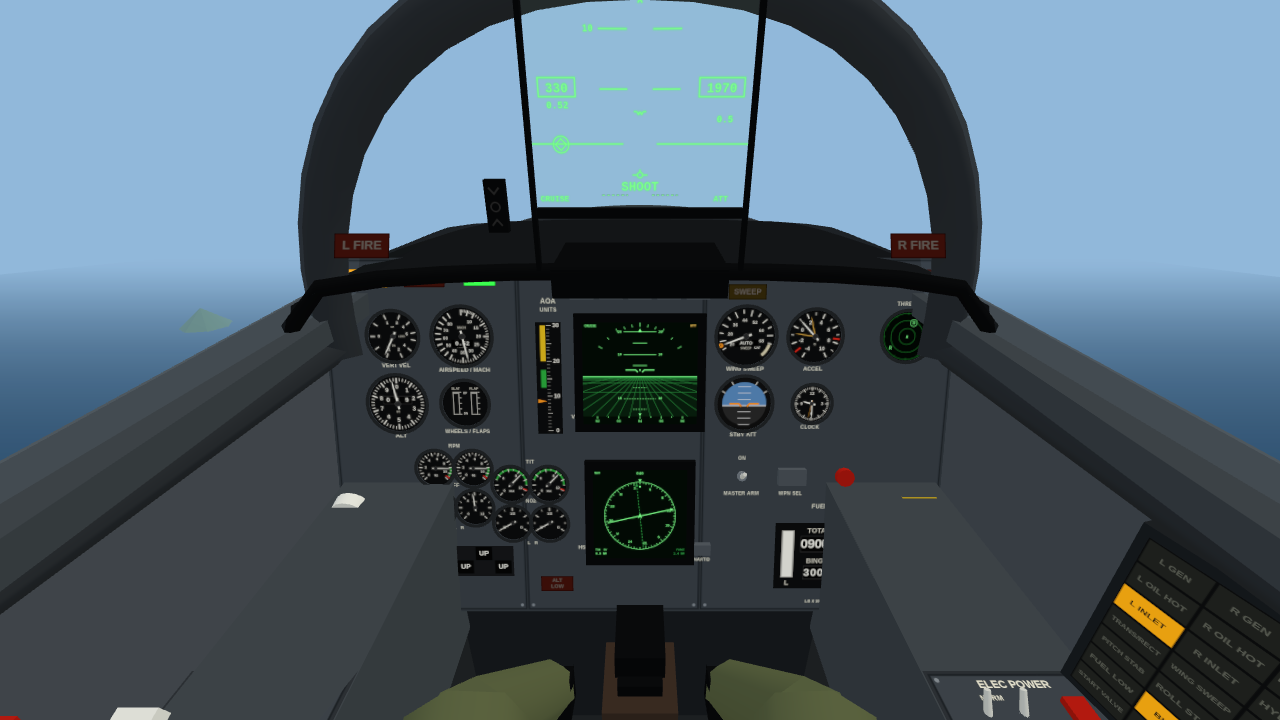
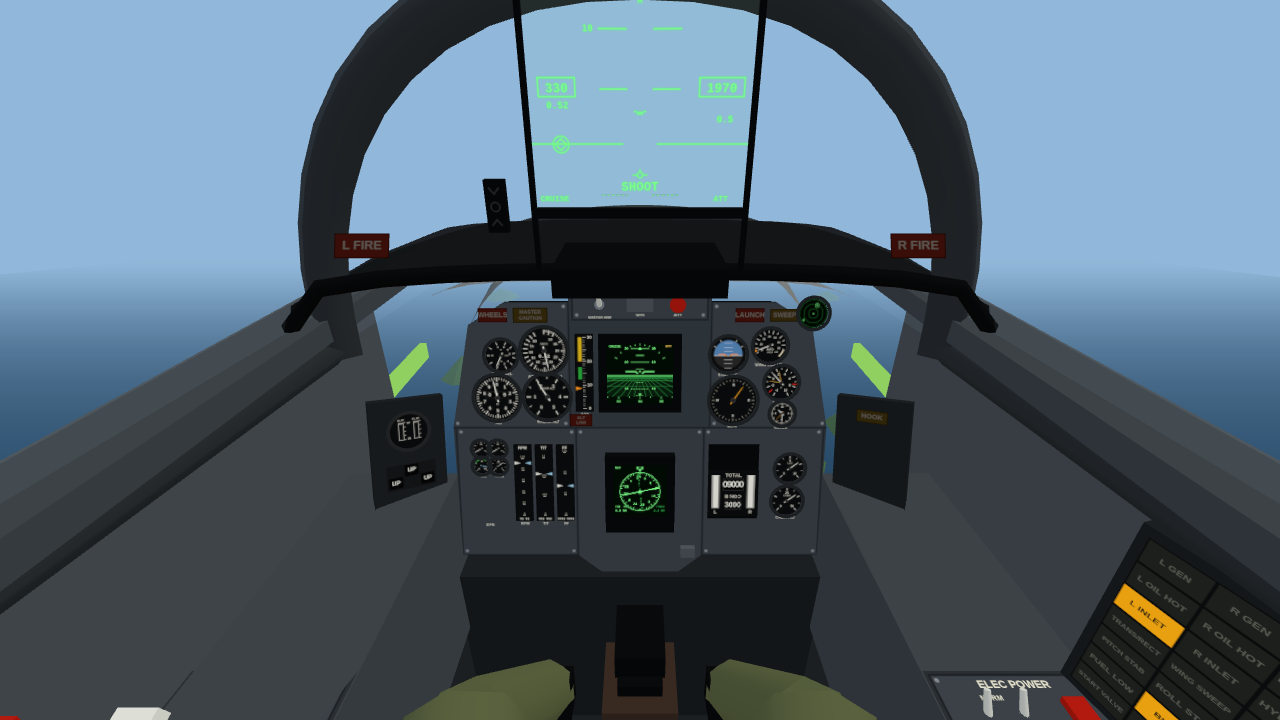
look-tomcat: pilot's panel traced from NATOPS fig. 1-3 (panel-pilot.json: 24 items by NATOPS number, scaled by the 3ATI airspeed bezel): the traced outline with cut-outs (main panel over the knee panels and the HSD), every dial / tape / display at its traced centre and size; RPM / TIT / FF as tapes,

Changed region(s): [[0.25, 0.3667, 0.7188, 0.8556], [0.125, 0.4278, 0.1875, 0.4583], [0.2812, 0.3361, 0.3125, 0.3667]]

diff --git a/game/js/units/air/tomcatcockpit.js b/game/js/units/air/tomcatcockpit.js
@@ -132,24 +132,43 @@ export function buildTomcatCockpit() {
 
   // ================================================================ the main instrument panel (tilted back)
   const P = new THREE.Group(); P.position.set(0, 0.5, -6.22); P.rotation.x = -0.3; g.add(P);
+  // (ngc/look-tomcat) TRACED from NATOPS NAVAIR 01-F14A-1 (1972) fig. 1-3, "Pilot's instrument panel and consoles" (page
+  // rendered at 5x: tools/blueprint/f14a/panel-pilot.json). Item = [NATOPS no., legend, centre x, y (figure px), w, h
+  // (px; a round dial has h 0)]. Scale: the 3ATI airspeed / Mach indicator (24) = 3.125 in = 139 px -> 1760 px/m; origin:
+  // the VDI's centre (33) at panel (0, 0.13). The illustration is a slight perspective, so centres are good to ~1 cm.
+  const PANEL_TRACE = [
+    [25, 'VERTICAL VELOCITY', 1519, 1107, 94, 0], [24, 'AIRSPEED / MACH', 1652, 1092, 139, 0], [22, 'ALTIMETER', 1502, 1240, 139, 0], [23, 'RADAR ALTIMETER', 1658, 1237, 139, 0],
+    [27, 'ANGLE OF ATTACK', 1774, 1162, 56, 244], [33, 'VDI', 1947, 1162, 256, 244], [32, 'AIR COMBAT MANEUVER PANEL', 1947, 925, 378, 144],
+    [43, 'STANDBY ATTITUDE', 2219, 1103, 106, 0], [40, 'WING SWEEP', 2347, 1076, 100, 0], [42, 'ACCELEROMETER', 2386, 1192, 100, 0], [46, 'BDHI', 2238, 1248, 144, 0], [45, 'CLOCK', 2392, 1290, 72, 0],
+    [16, 'NOZZLE POSITION', 1444, 1405, 50, 0], [16, 'NOZZLE POSITION R', 1497, 1405, 50, 0], [17, 'OIL PRESSURE', 1444, 1461, 50, 0], [18, 'HYDRAULIC PRESSURE', 1497, 1461, 50, 0],
+    [19, 'RPM', 1574, 1520, 56, 256], [20, 'TIT', 1641, 1520, 56, 256], [21, 'FUEL FLOW', 1708, 1520, 56, 256], [15, 'ENGINE PRESSURE RATIO', 1461, 1603, 122, 100],
+    [34, 'HSD', 1947, 1555, 222, 272], [48, 'FUEL QUANTITY', 2246, 1517, 161, 250], [49, 'LIQUID OXYGEN', 2424, 1470, 89, 0], [50, 'CABIN PRESSURE ALTIMETER', 2419, 1579, 94, 0],
+  ];
+  const PXM = 1760, TR = Object.fromEntries(PANEL_TRACE.map(([n, name, px, py, w, h]) => [name, { n, x: (px - 1947) / PXM, y: (1162 - py) / PXM + 0.13, w: w / PXM, h: h / PXM }]));
+  const at = name => TR[name], gl = name => [at(name).x, at(name).y, at(name).w];
   const PW = 1.1, PH = 0.66;
-  box(PW, PH, 0.05, dark, 0, 0, -0.03, P);
   const art = canvasTex(1100, 660);
-  plane(PW, PH, new THREE.MeshLambertMaterial({ map: art.tex, emissive: 0xffffff, emissiveMap: art.tex, emissiveIntensity: 0.55 }), 0, 0, 0, P);
+  // the traced outline (fig. 1-3): the main instrument panel (left, centre, right) over the two knee panels and the HSD
+  // between them; every dial and display a cut-out (the dark instrument cases show through round the bezels)
+  const OUT = [[-0.335, 0.03], [-0.30, 0.215], [-0.235, 0.255], [-0.125, 0.255], [-0.118, 0.33], [0.118, 0.33], [0.125, 0.255], [0.235, 0.255], [0.30, 0.215], [0.335, 0.03],
+    [0.33, -0.215], [0.115, -0.215], [0.07, -0.25], [-0.07, -0.25], [-0.115, -0.215], [-0.33, -0.215]];
+  const face = new THREE.Shape(OUT.map(([x, y]) => new THREE.Vector2(x, y)));
+  const holeIf = (x, y, w, h) => { const p = new THREE.Path(); if (h) { p.moveTo(x - w / 2, y - h / 2); p.lineTo(x - w / 2, y + h / 2); p.lineTo(x + w / 2, y + h / 2); p.lineTo(x + w / 2, y - h / 2); p.closePath(); } else p.absarc(x, y, w / 2 - 0.002, 0, TAU, true); face.holes.push(p); };
+  for (const it of Object.values(TR)) if (it.n !== 32 && it.n !== 15) holeIf(it.x, it.y, it.w, it.h);
+  const faceGeo = new THREE.ShapeGeometry(face, 24); { const uv = faceGeo.attributes.uv; for (let i = 0; i < uv.count; i++) uv.setXY(i, uv.getX(i) / PW + 0.5, uv.getY(i) / PH + 0.5); }
+  P.add(new THREE.Mesh(faceGeo, new THREE.MeshLambertMaterial({ map: art.tex, emissive: 0xffffff, emissiveMap: art.tex, emissiveIntensity: 0.55 })));
+  const back = new THREE.Mesh(new THREE.ShapeGeometry(new THREE.Shape(OUT.map(([x, y]) => new THREE.Vector2(x, y)))), black); back.position.z = -0.035; P.add(back);   // the instrument cases' dark behind the cut-outs
   // ---- round gauges: [x, y, diameter] on the panel
-  // (ngc/look-tomcat) laid out per NATOPS NAVAIR 01-F14A-1 fig. 1-3 (pilot's instrument panel and consoles): LEFT
-  // instrument panel VSI (25), airspeed/Mach (24), altimeter (22), wheels-flaps position (14, by the gear handle); LEFT KNEE
-  // panel the engine instruments (15-21: RPM, TIT, FF, nozzle, oil); RIGHT instrument panel wing sweep (40), accelerometer
-  // (42), standby attitude (43), clock (45); RIGHT KNEE fuel quantity (48); centre VDI (33) over HSD (34). The 1980 ALR-45
-  // threat scope sits top right (not in the 1972 figure)
+  const GLV = { flap: [0, 0.075, 0.06] };   // 14 WHEELS-FLAPS POSITION on the left vertical console
   const GL = {
-    vsi: [-0.43, 0.195, 0.085], asi: [-0.31, 0.195, 0.1], alt: [-0.43, 0.075, 0.1], flap: [-0.31, 0.075, 0.08],
-    sweep: [0.185, 0.195, 0.1], gmeter: [0.305, 0.195, 0.09], adi: [0.185, 0.075, 0.095], clock: [0.305, 0.075, 0.065],
-    rpmL: [-0.37, -0.045, 0.064], rpmR: [-0.302, -0.045, 0.064], titL: [-0.234, -0.075, 0.064], titR: [-0.166, -0.075, 0.064],
-    ffL: [-0.37, -0.12, 0.064], ffR: [-0.302, -0.12, 0.064], nozL: [-0.234, -0.15, 0.064], nozR: [-0.166, -0.15, 0.064],
-    oil: [-0.43, -0.225, 0.06], rwr: [0.465, 0.195, 0.085],
+    vsi: gl('VERTICAL VELOCITY'), asi: gl('AIRSPEED / MACH'), alt: gl('ALTIMETER'), ralt: gl('RADAR ALTIMETER'),
+    adi: gl('STANDBY ATTITUDE'), sweep: gl('WING SWEEP'), gmeter: gl('ACCELEROMETER'), bdhi: gl('BDHI'), clock: gl('CLOCK'),
+    nozL: gl('NOZZLE POSITION'), nozR: gl('NOZZLE POSITION R'), oil: gl('OIL PRESSURE'), hyd: gl('HYDRAULIC PRESSURE'),
+    lox: gl('LIQUID OXYGEN'), cabin: gl('CABIN PRESSURE ALTIMETER'), rwr: [0.30, 0.235, 0.05],
   };
   const gauges = [], ringM = M(0x26282a);
+  const VL = new THREE.Group(), VR = new THREE.Group(); VL.position.set(-0.40, -0.04, 0.035); VL.rotation.y = 0.6; VR.position.set(0.40, -0.04, 0.035); VR.rotation.y = -0.6; P.add(VL, VR);
+  for (const v of [VL, VR]) box(0.12, 0.26, 0.02, dark, 0, 0, -0.012, v);   // the left / right vertical consoles (fig. 1-3: 11-14, 51-53)
   function gauge(key, size, face, dyn, p = P, gl = GL) {
     const [x, y, d] = gl[key], t = canvasTex(size, size), o = new THREE.Mesh(new THREE.CircleGeometry(d / 2, 36), new THREE.MeshBasicMaterial({ map: t.tex, toneMapped: false, color: 0xdedede }));
     o.position.set(x, y, 0.004); p.add(o);
@@ -162,7 +181,7 @@ export function buildTomcatCockpit() {
   function rect(key, w, h, px, x, y, dyn, p = P, seatI = 0) { const t = canvasTex(Math.round(w * px), Math.round(h * px)), o = plane(w, h, new THREE.MeshBasicMaterial({ map: t.tex, toneMapped: false, color: 0xdedede }), x, y, 0.004, p); const R = { key, ...t, dyn, mesh: o, seat: seatI }; rects.push(R); return R; }
   // CRT displays: green phosphor, a bezel
   const crt = (w, h, px, x, y, p = P) => { box(w + 0.03, h + 0.03, 0.03, black, x, y, -0.005, p); const t = canvasTex(Math.round(w * px), Math.round(h * px)); const o = plane(w, h, new THREE.MeshBasicMaterial({ map: t.tex, toneMapped: false }), x, y, 0.012, p); return { ...t, mesh: o }; };
-  const vdi = crt(0.2, 0.18, 2400, 0, 0.13), hsd = crt(0.17, 0.17, 2400, 0, -0.13);
+  const vdi = crt(at('VDI').w - 0.03, at('VDI').h - 0.03, 2400, at('VDI').x, at('VDI').y), hsd = crt(at('HSD').w - 0.03, at('HSD').w - 0.03, 2400, at('HSD').x, at('HSD').y + 0.01);
 
   // ---- caption lamps: two pre-drawn textures (off / on), swapped by setLamp
   function lamp(parent, w, h, x, y, z, text, on, off = '#2a2420', ink = '#111', rx = 0, ry = 0) {
@@ -173,13 +192,13 @@ export function buildTomcatCockpit() {
   }
   const setLamp = (o, v) => { v = !!v; if (o.userData.on !== v) { o.userData.on = v; o.material.map = v ? o.userData.tOn : o.userData.tOff; } };
   const L = {
-    mc: lamp(P, 0.075, 0.032, -0.47, 0.295, 0.005, 'MASTER|CAUTION', '#ffaa18', '#2e2408'),
-    wheels: lamp(P, 0.07, 0.03, -0.37, 0.295, 0.005, 'WHEELS', '#ff2a14', '#3a0e08'),
-    altlo: lamp(P, 0.06, 0.03, -0.155, -0.27, 0.005, 'ALT|LOW', '#ff2a14', '#3a0e08'),
-    launch: lamp(P, 0.065, 0.03, 0.48, 0.295, 0.005, 'LAUNCH', '#ff2a14', '#3a0e08'),
-    acm: lamp(P, 0.055, 0.026, -0.275, 0.295, 0.005, 'ACM', '#3cff50', '#0e2410'),
-    sweep: lamp(P, 0.065, 0.026, 0.185, 0.272, 0.005, 'SWEEP', '#ffaa18', '#2e2408'),
-    hook: lamp(P, 0.05, 0.026, 0.49, -0.27, 0.005, 'HOOK', '#ffaa18', '#2e2408'),
+    mc: lamp(P, 0.06, 0.026, -0.19, 0.232, 0.005, 'MASTER|CAUTION', '#ffaa18', '#2e2408'),
+    wheels: lamp(P, 0.05, 0.024, -0.255, 0.232, 0.005, 'WHEELS', '#ff2a14', '#3a0e08'),
+    altlo: lamp(P, 0.04, 0.022, -0.105, 0.045, 0.005, 'ALT|LOW', '#ff2a14', '#3a0e08'),
+    launch: lamp(P, 0.05, 0.024, 0.19, 0.232, 0.005, 'LAUNCH', '#ff2a14', '#3a0e08'),
+    acm: lamp(P, 0.04, 0.02, 0.09, 0.315, 0.005, 'ACM', '#3cff50', '#0e2410'),
+    sweep: lamp(P, 0.05, 0.022, 0.25, 0.232, 0.005, 'SWEEP', '#ffaa18', '#2e2408'),
+    hook: lamp(VR, 0.05, 0.022, 0, 0.1, 0.005, 'HOOK', '#ffaa18', '#2e2408'),
     fireL: lamp(g, 0.075, 0.034, -0.38, 0.875, -6.15, 'L FIRE', '#ff2a14', '#3a0e08', '#111', -0.5),
     fireR: lamp(g, 0.075, 0.034, 0.38, 0.875, -6.15, 'R FIRE', '#ff2a14', '#3a0e08', '#111', -0.5),
   };
@@ -208,20 +227,20 @@ export function buildTomcatCockpit() {
   };
   const button = (id, p, x, y, w, h, mat, label, list = hitsP) => { const b = box(w, h, 0.012, mat, x, y, 0.006, p); hit(id, w + 0.012, h + 0.012, 0.04, x, y, 0.015, p, label, list); return b; };
   // panel: gear handle (wheel knob, red light in it), hook handle, master arm, weapon select, HUD mode buttons, ACM jett
-  const gearH = new THREE.Group(); gearH.position.set(-0.505, -0.075, 0.02); P.add(gearH);
+  const gearH = new THREE.Group(); gearH.position.set(0, -0.06, 0.02); VL.add(gearH);   // 13 LANDING GEAR CONTROL on the left vertical console
   box(0.014, 0.1, 0.014, metal, 0, 0, 0, gearH); cyl(0.028, 0.028, 0.022, M(0xe8e8e0), 0, 0.055, 0, gearH, Math.PI / 2, 0, 14);
   const gearRed = new THREE.Mesh(new THREE.CircleGeometry(0.012, 10), lit(0x300808)); gearRed.position.set(0, 0.055, 0.012); gearH.add(gearRed);
-  hit('gear', 0.07, 0.15, 0.08, -0.505, -0.055, 0.03, P, 'LANDING GEAR');
-  const hookH = new THREE.Group(); hookH.position.set(0.49, -0.17, 0.02); P.add(hookH);
+  hit('gear', 0.07, 0.15, 0.08, 0, -0.04, 0.03, VL, 'LANDING GEAR');
+  const hookH = new THREE.Group(); hookH.position.set(0, -0.04, 0.02); VR.add(hookH);   // 51 ARRESTING HOOK on the right vertical console
   box(0.014, 0.1, 0.014, metal, 0, 0, 0, hookH); box(0.06, 0.02, 0.03, yellow, 0, 0.055, 0.006, hookH);
-  hit('hook', 0.07, 0.15, 0.08, 0.49, -0.15, 0.03, P, 'ARRESTING HOOK');
-  toggle('arm', P, 0.185, -0.06, 'MASTER ARM');
-  button('wpn', P, 0.275, -0.06, 0.05, 0.03, M(0x50565c), 'WEAPON SELECT  SW / SP / PH / GUN');
+  hit('hook', 0.07, 0.15, 0.08, 0, -0.02, 0.03, VR, 'ARRESTING HOOK');
+  toggle('arm', P, -0.07, 0.25, 'MASTER ARM');   // the ACM panel (32) under the HUD
+  button('wpn', P, 0.0, 0.25, 0.045, 0.024, M(0x50565c), 'WEAPON SELECT  SW / SP / PH / GUN');
   const MODES = ['T.O.', 'CRUISE', 'A/A', 'A/G', 'LDG'], modeB = {};
-  MODES.forEach((m, i) => { modeB[m] = button('hud:' + m, P, -0.1 + i * 0.05, 0.27, 0.04, 0.022, M(0x50565c), `HUD MODE ${m}`); });
-  const hsdB = button('hsdmode', P, 0.115, -0.2, 0.03, 0.02, M(0x50565c), 'HSD  NAV / TID REPEAT');
-  hit('mc', 0.085, 0.04, 0.03, -0.47, 0.295, 0.01, P, 'MASTER CAUTION RESET');
-  const jettB = cyl(0.016, 0.016, 0.012, redM, 0.37, -0.06, 0.008, P, Math.PI / 2, 0, 12); hit('jett', 0.05, 0.05, 0.03, 0.37, -0.06, 0.01, P, 'ACM JETTISON (STORES)');
+  MODES.forEach((m, i) => { modeB[m] = button('hud:' + m, P, -0.09 + i * 0.04, 0.293, 0.034, 0.018, M(0x50565c), `HUD MODE ${m}`); });
+  const hsdB = button('hsdmode', P, 0.088, -0.205, 0.026, 0.018, M(0x50565c), 'HSD  NAV / TID REPEAT');
+  hit('mc', 0.07, 0.035, 0.03, -0.19, 0.232, 0.01, P, 'MASTER CAUTION RESET');
+  const jettB = cyl(0.014, 0.014, 0.012, redM, 0.065, 0.25, 0.008, P, Math.PI / 2, 0, 12); hit('jett', 0.04, 0.04, 0.03, 0.065, 0.25, 0.01, P, 'ACM JETTISON (STORES)');
   hit('fireL', 0.08, 0.05, 0.04, -0.38, 0.875, -6.15, g, 'L FIRE  -  PUSH TO DISCHARGE'); hit('fireR', 0.08, 0.05, 0.04, 0.38, 0.875, -6.15, g, 'R FIRE  -  PUSH TO DISCHARGE');
   // left console (flat, facing up; canvas top = forward): throttle quadrant, sweep handle, flaps, AFCS, crank
   const conL = canvasTex(440, 1520), conR = canvasTex(440, 1520); conL.ctx.scale(2, 2); conR.ctx.scale(2, 2);   // drawn in 220 x 760 units at 2x for legible placards
@@ -357,18 +376,14 @@ export function buildTomcatCockpit() {
     c.fillStyle = '#353b40'; c.fillRect(0, 0, W, H);
     // panel sections with screw heads (the F-14's grey panels), white placard lettering
     const sect = (x0, y0, x1, y1) => { c.fillStyle = '#3a4046'; c.fillRect(px(x0), py(y1), (x1 - x0) * 1000, (y1 - y0) * 1000); c.strokeStyle = '#22272b'; c.lineWidth = 3; c.strokeRect(px(x0), py(y1), (x1 - x0) * 1000, (y1 - y0) * 1000); c.fillStyle = '#80868c'; for (const [sx, sy] of [[x0 + 0.008, y0 + 0.008], [x1 - 0.008, y0 + 0.008], [x0 + 0.008, y1 - 0.008], [x1 - 0.008, y1 - 0.008]]) { c.beginPath(); c.arc(px(sx), py(sy), 3, 0, TAU); c.fill(); } };
-    sect(-0.545, -0.325, -0.215, 0.325); sect(0.115, -0.325, 0.545, 0.325); sect(-0.21, -0.325, 0.11, 0.325);
+    sect(-0.335, 0.03, -0.125, 0.255); sect(0.125, 0.03, 0.335, 0.255); sect(-0.118, 0.224, 0.118, 0.33); sect(-0.33, -0.215, -0.115, 0.03); sect(0.115, -0.215, 0.33, 0.03); sect(-0.115, -0.25, 0.115, 0.03);
     c.fillStyle = '#e6e2cf'; c.textAlign = 'center'; c.textBaseline = 'middle';
     const lab = (t, x, y, s = 12, col = '#e6e2cf') => { c.fillStyle = col; c.font = `bold ${s}px ${SANS}`; c.fillText(t, px(x), py(y)); };
-    lab('VERT VEL', -0.43, 0.143, 10); lab('AIRSPEED / MACH', -0.31, 0.135, 10); lab('ALT', -0.43, 0.015, 11); lab('WHEELS / FLAPS', -0.31, 0.022, 9);
-    lab('AOA', -0.16, 0.255, 12); lab('UNITS', -0.16, 0.24, 9);
-    lab('WING SWEEP', 0.185, 0.137, 10); lab('ACCEL', 0.305, 0.137, 10); lab('STBY ATT', 0.185, 0.017, 10); lab('CLOCK', 0.305, 0.03, 9);
-    lab('RPM', -0.336, -0.005, 9); lab('TIT', -0.2, -0.035, 9); lab('FF', -0.336, -0.08, 9); lab('NOZ', -0.2, -0.11, 9); lab('L    R', -0.336, -0.162, 8); lab('L    R', -0.2, -0.192, 8);
-    lab('OIL', -0.43, -0.27, 9); lab('THREAT', 0.465, 0.25, 9);
-    lab('LDG GEAR', -0.505, -0.15, 8); lab('HOOK', 0.49, -0.245, 11); lab('MASTER ARM', 0.185, -0.095, 9); lab('ON', 0.185, -0.028, 9); lab('WPN SEL', 0.275, -0.095, 9);
-    lab('ACM JETT', 0.37, -0.095, 9); lab('VDI', -0.115, 0.05, 10); lab('HSD', -0.105, -0.2, 10); lab('NAV/TID', 0.115, -0.225, 8);
-    lab('FUEL', 0.33, -0.12, 11); lab('LB X 1000', 0.33, -0.31, 8);
-    MODES.forEach((m, i) => lab(m, -0.1 + i * 0.05, 0.3, 9));
+    // placards by each traced item (NATOPS legend names, shortened as stencilled)
+    const L1 = { 'VERTICAL VELOCITY': 'VERT VEL', 'AIRSPEED / MACH': 'AIRSPEED/MACH', 'ALTIMETER': 'ALT', 'RADAR ALTIMETER': 'RADAR ALT', 'STANDBY ATTITUDE': 'STBY ATT', 'WING SWEEP': 'WING SWEEP', 'ACCELEROMETER': 'ACCEL', 'BDHI': 'BDHI', 'CLOCK': 'CLOCK', 'NOZZLE POSITION': 'NOZ L', 'NOZZLE POSITION R': 'NOZ R', 'OIL PRESSURE': 'OIL', 'HYDRAULIC PRESSURE': 'HYD', 'RPM': 'RPM', 'TIT': 'TIT', 'FUEL FLOW': 'FF', 'ENGINE PRESSURE RATIO': 'EPR', 'LIQUID OXYGEN': 'LOX', 'CABIN PRESSURE ALTIMETER': 'CABIN ALT', 'ANGLE OF ATTACK': 'AOA' };
+    for (const [k, t] of Object.entries(L1)) { const it = TR[k]; lab(t, it.x, it.y - (it.h || it.w) / 2 - 0.007, 7); }
+    lab('MASTER ARM', -0.07, 0.228, 6); lab('WPN', 0.0, 0.232, 6); lab('JETT', 0.065, 0.232, 6); lab('F-14A', 0, 0.322, 8, '#cfd0c8');
+    MODES.forEach((m, i) => lab(m, -0.09 + i * 0.04, 0.307, 6));
     c.fillStyle = '#2a2e32'; c.fillRect(px(-0.545), py(-0.3), 120, 26); lab('F-14A', -0.485, -0.315, 13, '#cfd0c8');
     art.tex.needsUpdate = true;
     // the side consoles: grey Dzus panels (console-local metres: x across, y forward), white placards by each control
@@ -441,7 +456,7 @@ export function buildTomcatCockpit() {
     (c, W, S) => { const R = W / 2; needle(c, R, gMap(S.gmax ?? 1), R * 0.8, '#d0a040', R * 0.05, 0.1); needle(c, R, gMap(S.gmin ?? 1), R * 0.8, '#d0a040', R * 0.05, 0.1); needle(c, R, gMap(V.g), R * 0.86); hub(c, R, 0.1); });
   // flap / slat position: two vertical bars in a dial
   gauge('flap', 192, (c, W) => { const R = W / 2; faceBg(c, W); txt(c, 'SLAT', R * 0.6, R * 0.32, '#cfcdc0', R * 0.15); txt(c, 'FLAP', R * 1.4, R * 0.32, '#cfcdc0', R * 0.15); for (const x of [0.6, 1.4]) { c.strokeStyle = '#ecebe2'; c.lineWidth = 2; c.strokeRect(R * x - R * 0.13, R * 0.48, R * 0.26, R * 1.0); for (let k = 0; k <= 4; k++) { const y = R * 0.48 + k * R * 0.25; c.beginPath(); c.moveTo(R * x + R * 0.15, y); c.lineTo(R * x + R * 0.24, y); c.stroke(); } } txt(c, 'UP', R, R * 0.52, '#ecebe2', R * 0.12); txt(c, 'DN', R, R * 1.44, '#ecebe2', R * 0.12); },
-    (c, W) => { const R = W / 2; c.fillStyle = '#f2f2ea'; c.fillRect(R * 0.49, R * 0.5, R * 0.22, R * 0.96 * V.slat + 2); c.fillRect(R * 1.29, R * 0.5, R * 0.22, R * 0.96 * V.flap + 2); });
+    (c, W) => { const R = W / 2; c.fillStyle = '#f2f2ea'; c.fillRect(R * 0.49, R * 0.5, R * 0.22, R * 0.96 * V.slat + 2); c.fillRect(R * 1.29, R * 0.5, R * 0.22, R * 0.96 * V.flap + 2); }, VL, GLV);
   // altimeter: counter-pointer (needle = hundreds, drum = thousands)
   gauge('alt', 256, (c, W) => dialFace(c, W, { map: lin(0, 0, 1000, 360), v0: 0, v1: 980, major: 100, minor: 20, labels: [0, 1, 2, 3, 4, 5, 6, 7, 8, 9].map(k => [k * 100, String(k)]), lr: 0.6 }),
     (c, W, S, G) => { const R = W / 2; if (flaky(S, G.i)) { offFlag(c, W); return; } drum(c, R * 0.5, R * 0.72, R * 1.0, R * 0.28, Math.floor(Math.max(0, V.alt) / 100), 3); txt(c, 'FT', R, R * 1.3, '#cfcdc0', R * 0.1); needle(c, R, (Math.max(0, V.alt) % 1000) / 1000 * 360, R * 0.86); hub(c, R, 0.1); });
@@ -466,15 +481,19 @@ export function buildTomcatCockpit() {
   const rpmMap = lin(0, -135, 110, 135), titMap = lin(0, -135, 1300, 135), ffMap = lin(0, -135, 12, 135), nozMap = lin(0, -120, 100, 120), oilMap = lin(0, -135, 100, 135);
   for (const k of [0, 1]) {
     const s = k ? 'R' : 'L';
-    gauge('rpm' + s, 192, (c, W) => dialFace(c, W, { map: rpmMap, v0: 0, v1: 110, major: 10, minor: 5, labels: [[0, '0'], [20, '2'], [40, '4'], [60, '6'], [80, '8'], [100, '10']], bands: [[90, 104, '#2db040']], reds: [107], ls: 0.2 }),
-      (c, W, S) => { const R = W / 2; txt(c, String(Math.round(V.rpm[k])), R, R * 1.42, '#f2f2ea', R * 0.18, 'center', MONO); needle(c, R, rpmMap(V.rpm[k]), R * 0.86); hub(c, R, 0.1); if (S.stalled && S.stalled[k]) txt(c, 'STALL', R, R * 0.62, '#ff5030', R * 0.16); });
-    gauge('tit' + s, 192, (c, W) => dialFace(c, W, { map: titMap, v0: 0, v1: 1300, major: 200, minor: 100, labels: [[0, '0'], [400, '4'], [800, '8'], [1200, '12']], bands: [[300, 1100, '#2db040']], reds: [1190], ls: 0.2 }),
-      (c, W) => { const R = W / 2; txt(c, String(Math.round(V.tit[k])), R, R * 1.42, '#f2f2ea', R * 0.16, 'center', MONO); needle(c, R, titMap(V.tit[k]), R * 0.86); hub(c, R, 0.1); });
-    gauge('ff' + s, 192, (c, W) => dialFace(c, W, { map: ffMap, v0: 0, v1: 12, major: 2, minor: 1, labels: [[0, '0'], [4, '4'], [8, '8'], [12, '12']], ls: 0.2 }),
-      (c, W) => { const R = W / 2; txt(c, 'PPH', R, R * 0.66, '#cfcdc0', R * 0.1); needle(c, R, ffMap(V.ff[k] / 1000), R * 0.86); hub(c, R, 0.1); });
     gauge('noz' + s, 192, (c, W) => dialFace(c, W, { map: nozMap, v0: 0, v1: 100, major: 25, minor: 12.5, labels: [[0, 'C'], [50, '1/2'], [100, 'O']], ls: 0.2 }),
       (c, W) => { const R = W / 2; needle(c, R, nozMap(V.noz[k]), R * 0.86); hub(c, R, 0.1); });
   }
+  const tape = (key, lab, v0, v1, ticks, val) => { const it = TR[key]; rect('tape' + key, it.w, it.h, 2400, it.x, it.y, (c, W, H) => {
+    c.fillStyle = '#0c0d0e'; c.fillRect(0, 0, W, H); const y = v => H * 0.92 - H * 0.82 * clamp((v - v0) / (v1 - v0), 0, 1);
+    txt(c, lab, W / 2, H * 0.04, '#ecebe2', W * 0.22); for (const t of ticks) { c.strokeStyle = '#ecebe2'; c.lineWidth = 2; c.beginPath(); c.moveTo(W * 0.42, y(t)); c.lineTo(W * 0.58, y(t)); c.stroke(); txt(c, String(t >= 1000 ? t / 100 : t), W * 0.5, y(t) - H * 0.018, '#9a988c', W * 0.16); }
+    for (const k of [0, 1]) { const yy = y(val(k)), x = k ? W * 0.62 : W * 0.38; c.fillStyle = k ? '#9fd0e8' : '#f2f2ea'; c.beginPath(); c.moveTo(x, yy); c.lineTo(k ? W * 0.96 : W * 0.04, yy - 7); c.lineTo(k ? W * 0.96 : W * 0.04, yy + 7); c.fill(); }
+    txt(c, String(Math.round(val(0))) + ' ' + String(Math.round(val(1))), W / 2, H * 0.97, '#f2f2ea', W * 0.17, 'center', MONO); }); };
+  tape('RPM', 'RPM', 0, 110, [0, 20, 40, 60, 80, 100], k => V.rpm[k]); tape('TIT', 'TIT', 0, 1300, [0, 400, 800, 1200], k => V.tit[k]); tape('FUEL FLOW', 'FF', 0, 12000, [0, 4000, 8000, 12000], k => V.ff[k]);
+  const statDial = (key, size, lab, labels) => gauge(key, size, (c, W) => dialFace(c, W, { map: lin(0, -135, 100, 135), v0: 0, v1: 100, major: 25, minor: 12.5, labels, ls: 0.2 }), (c, W) => { const R = W / 2; txt(c, lab, R, R * 0.62, '#cfcdc0', R * 0.15); needle(c, R, lin(0, -135, 100, 135)(70), R * 0.8); hub(c, R, 0.1); });
+  statDial('hyd', 128, 'HYD', [[0, '0'], [50, '1.5'], [100, '3']]); statDial('lox', 128, 'LOX', [[0, '0'], [50, '5'], [100, '10']]); statDial('cabin', 128, 'CABIN', [[0, '0'], [50, '25'], [100, '50']]);
+  gauge('ralt', 224, (c, W) => dialFace(c, W, { map: lin(0, -150, 5000, 150), v0: 0, v1: 5000, major: 1000, minor: 500, labels: [[0, '0'], [1000, '1'], [2000, '2'], [3000, '3'], [4000, '4'], [5000, '5']], ls: 0.2 }), (c, W, S) => { const R = W / 2; txt(c, 'RADAR ALT', R, R * 0.62, '#cfcdc0', R * 0.12); needle(c, R, lin(0, -150, 5000, 150)(Math.min(5000, (S.agl || 0) * 3.28)), R * 0.84); hub(c, R, 0.1); });
+  gauge('bdhi', 256, (c, W) => { const R = W / 2; faceBg(c, W); for (let a = 0; a < 360; a += 10) radial(c, R, a, '#cfcdc0', R * (a % 30 ? 0.86 : 0.8), R * 0.92, 2); [['N', 0], ['E', 90], ['S', 180], ['W', 270]].forEach(([t, a]) => { const [x, y] = P2(R, R * 0.68, a); txt(c, t, x, y, '#f2f2ea', R * 0.14); }); }, (c, W, S, G, A) => { const R = W / 2; needle(c, R, S.wpt ? S.wpt.brg * 180 / Math.PI : 0, R * 0.78, '#e8a020', R * 0.05); hub(c, R, 0.1); });
   gauge('oil', 160, (c, W) => dialFace(c, W, { map: oilMap, v0: 0, v1: 100, major: 25, minor: 12.5, labels: [[0, '0'], [50, '50'], [100, '100']], bands: [[25, 65, '#2db040']], ls: 0.2 }),
     (c, W) => { const R = W / 2; needle(c, R, oilMap(V.oil[0]), R * 0.8, '#f2f2ea', R * 0.08); needle(c, R, oilMap(V.oil[1]), R * 0.62, '#9fd0e8', R * 0.1); hub(c, R, 0.1); txt(c, 'L', R * 0.7, R * 1.4, '#f2f2ea', R * 0.15); txt(c, 'R', R * 1.3, R * 1.4, '#9fd0e8', R * 0.15); });
   // ALR-45 threat azimuth scope (also the RIO's repeat): green CRT, threats by relative bearing, closer = nearer the centre
@@ -491,22 +510,22 @@ export function buildTomcatCockpit() {
   };
   gauge('rwr', 192, null, rwrDraw);
   // AoA tape: 0 .. 30 units with the on-speed band, a pointer that rides it
-  rect('aoa', 0.044, 0.2, 2400, -0.16, 0.12, (c, W, H) => {
+  rect('aoa', at('ANGLE OF ATTACK').w, at('ANGLE OF ATTACK').h, 2400, at('ANGLE OF ATTACK').x, at('ANGLE OF ATTACK').y, (c, W, H) => {
     c.fillStyle = '#0c0d0e'; c.fillRect(0, 0, W, H); const y = u => H - 14 - (H - 28) * clamp(u, 0, 30) / 30;
     c.fillStyle = '#2db040'; c.fillRect(W * 0.18, y(17.5), W * 0.2, y(12.5) - y(17.5)); c.fillStyle = '#e8c020'; c.fillRect(W * 0.18, y(30), W * 0.2, y(20) - y(30));
     for (let u = 0; u <= 30; u += 1) { c.strokeStyle = '#ecebe2'; c.lineWidth = u % 5 ? 1 : 2; c.beginPath(); c.moveTo(W * 0.42, y(u)); c.lineTo(W * (u % 5 ? 0.55 : 0.62), y(u)); c.stroke(); if (u % 10 === 0) txt(c, String(u), W * 0.8, y(u), '#ecebe2', W * 0.24); }
     c.fillStyle = '#ff9a20'; const yy = y(V.aoa); c.beginPath(); c.moveTo(W * 0.4, yy); c.lineTo(W * 0.04, yy - 8); c.lineTo(W * 0.04, yy + 8); c.fill();
   });
   // gear position indicator: wheels, UP, or a barber pole in transit; brake / flap advisories under it
-  rect('gearInd', 0.11, 0.06, 2000, -0.29, -0.225, (c, W, H, S, A) => {
+  rect('gearInd', 0.08, 0.045, 2000, 0, -0.005, (c, W, H, S, A) => {
     c.fillStyle = '#16181a'; c.fillRect(0, 0, W, H); const dn = A.gear > 0.99, up = A.gear < 0.01;
     [[W * 0.36, 4], [W * 0.04, H * 0.48], [W * 0.68, H * 0.48]].forEach(([x, y], i) => {
       const w = W * 0.28, h = H * 0.44; if (!dn && !up) barber(c, x, y, w, h); else { c.fillStyle = '#050505'; c.fillRect(x, y, w, h); if (dn) { c.strokeStyle = '#f2f2ea'; c.lineWidth = 3; c.beginPath(); c.arc(x + w / 2, y + h / 2, h * 0.32, 0, TAU); c.stroke(); } else txt(c, 'UP', x + w / 2, y + h / 2, '#f2f2ea', h * 0.5); }
       void i;
     });
-  });
+  }, VL);
   // fuel quantity: feed tapes (L / R) and the totaliser with the BINGO counter
-  rect('fuel', 0.16, 0.13, 2000, 0.33, -0.215, (c, W, H, S, A) => {
+  rect('fuel', at('FUEL QUANTITY').w, at('FUEL QUANTITY').h * 0.62, 2000, at('FUEL QUANTITY').x, at('FUEL QUANTITY').y - 0.02, (c, W, H, S, A) => {
     c.fillStyle = '#0c0d0e'; c.fillRect(0, 0, W, H); const lb = A.fuel * LB, feed = Math.min(lb / 2, 4000) / 4000;
     for (const [x, t] of [[W * 0.08, 'L'], [W * 0.78, 'R']]) { c.strokeStyle = '#ecebe2'; c.lineWidth = 2; c.strokeRect(x, H * 0.12, W * 0.14, H * 0.7); c.fillStyle = '#f2f2ea'; c.fillRect(x + 3, H * 0.12 + H * 0.7 * (1 - feed), W * 0.14 - 6, H * 0.7 * feed); txt(c, t, x + W * 0.07, H * 0.92, '#cfcdc0', H * 0.1); }
     txt(c, 'TOTAL', W * 0.5, H * 0.12, '#cfcdc0', H * 0.1); drum(c, W * 0.3, H * 0.2, W * 0.4, H * 0.24, Math.round(lb / 10) * 10, 5, lb < 2000 ? '#ffb040' : '#f2f2ea');

diff --git a/game/js/units/air/tomcatmodel.js b/game/js/units/air/tomcatmodel.js
@@ -373,6 +373,7 @@ export function buildTomcatModel(side = 1, { modex = 201 } = {}) {
     for (const k in stores) stores[k].visible = false;
     if (A.stores && A.stores.length !== undefined) for (const s of A.stores) { const m = stores[s.w + '@' + s.st]; if (m) m.visible = !!s.on; }
     for (const o of shell) o.visible = !inside;
+    for (const o of lightG.children) if (o.name === 'formation') o.visible = !inside;   // (seen through the hull from the cockpit otherwise)
   }
   // world-space-free helpers for the game: where the nozzles and wingtips are (for exhaust and vapour)
   const _t = V();
